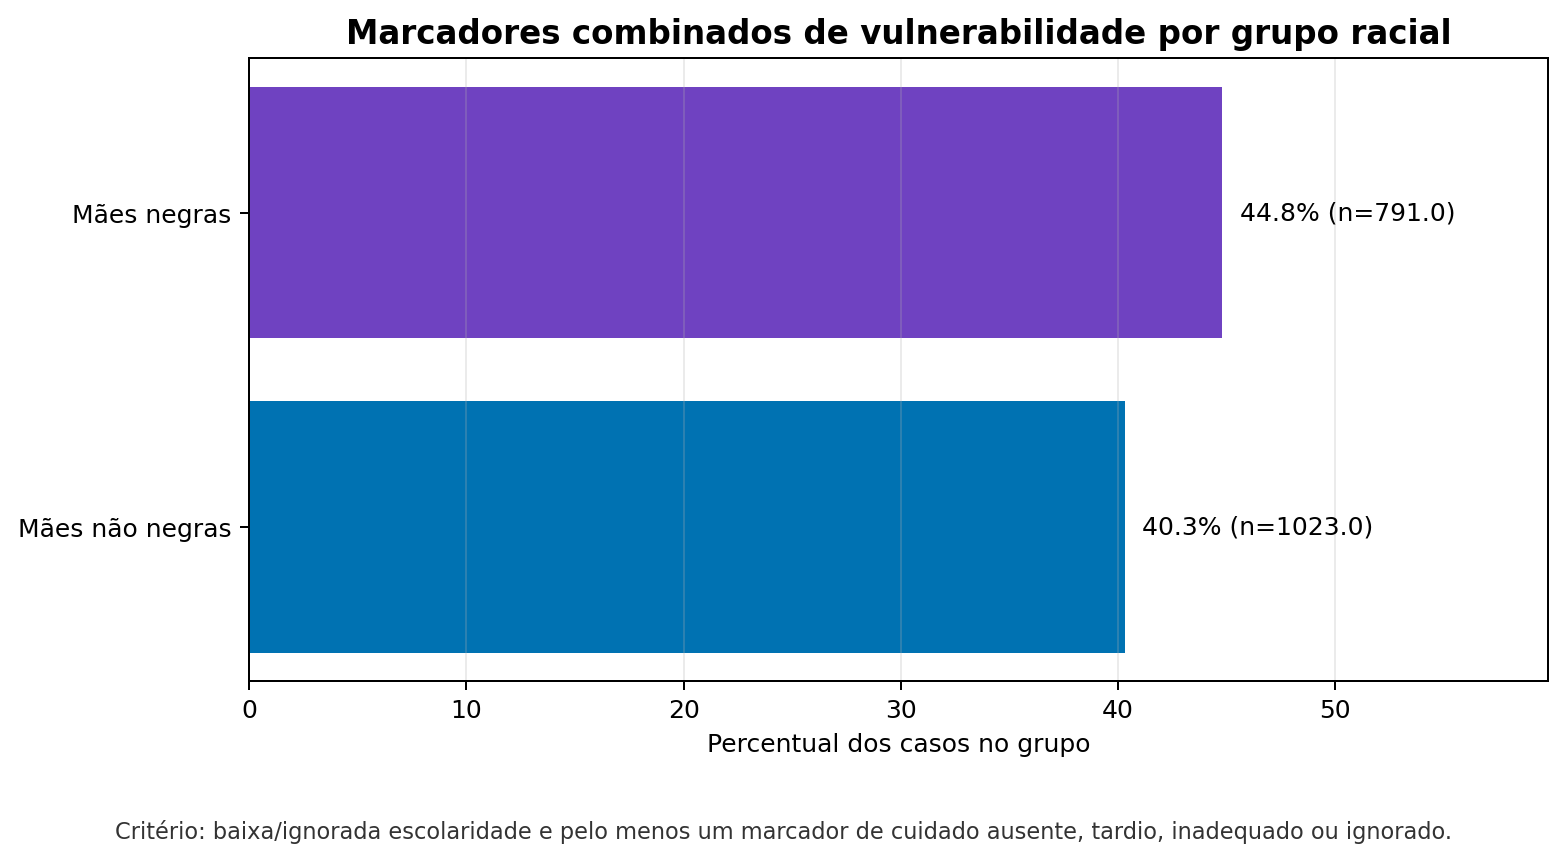
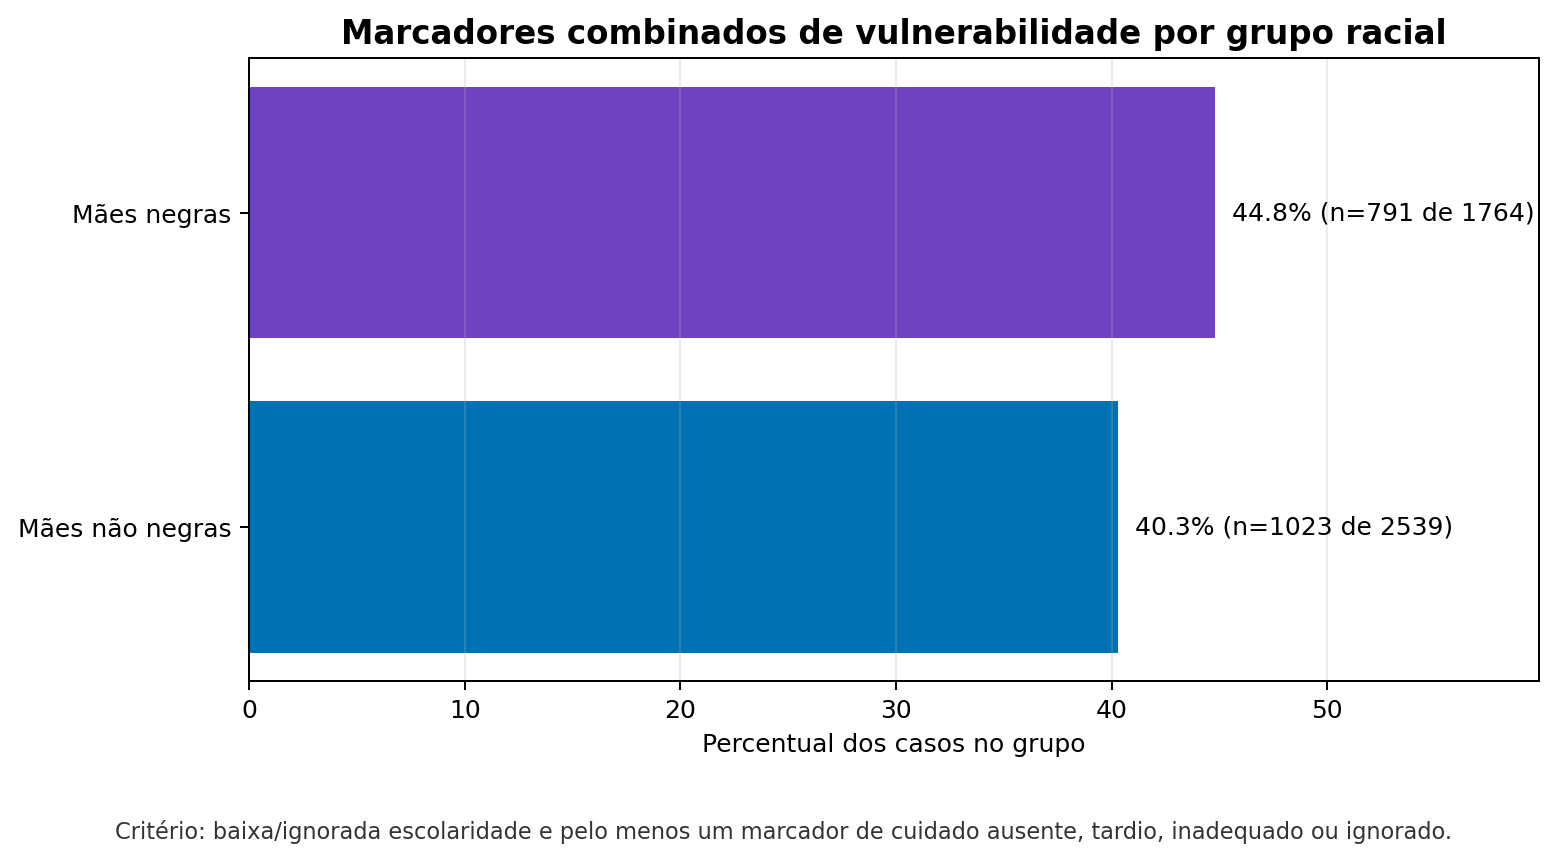
fix(visualizacao): refinar graficos finais de desigualdade

diff --git a/src/visualization/final_report.py b/src/visualization/final_report.py
@@ -192,6 +192,101 @@ def plot_prenatal(engine, output_dir: Path) -> Path:
     return savefig(fig, output_dir / "prenatal_grupo_racial.png")
 
 
+def plot_schooling_without_prenatal(engine, output_dir: Path) -> Path:
+    query = """
+    SELECT
+        grupo_racial_mae,
+        escolaridade_mae,
+        SUM(casos_sc)::integer AS casos
+    FROM gold.sinan_sc_sem_prenatal_escolaridade
+    WHERE cod_municipio_residencia = '431490'
+      AND grupo_racial_mae IN ('Maes negras', 'Maes nao negras')
+    GROUP BY grupo_racial_mae, escolaridade_mae
+    """
+    data = pd.read_sql_query(text(query), engine)
+    group_order = ["Maes nao negras", "Maes negras"]
+    schooling_order = ["Ate 7 anos de estudo", "8 anos ou mais de estudo", "Ignorada/sem informacao"]
+    group_labels = {
+        "Maes nao negras": "Mães não negras",
+        "Maes negras": "Mães negras",
+    }
+    schooling_labels = {
+        "Ate 7 anos de estudo": "Até 7 anos de estudo",
+        "8 anos ou mais de estudo": "8 anos ou mais de estudo",
+        "Ignorada/sem informacao": "Ignorada/sem informação",
+    }
+    colors = {
+        "Ate 7 anos de estudo": "#D55E00",
+        "8 anos ou mais de estudo": "#0072B2",
+        "Ignorada/sem informacao": "#8A8F98",
+    }
+
+    base = pd.MultiIndex.from_product(
+        [group_order, schooling_order],
+        names=["grupo_racial_mae", "escolaridade_mae"],
+    ).to_frame(index=False)
+    plot_data = base.merge(data, on=["grupo_racial_mae", "escolaridade_mae"], how="left").fillna({"casos": 0})
+    plot_data["casos"] = plot_data["casos"].astype(int)
+    plot_data["total_grupo"] = plot_data.groupby("grupo_racial_mae")["casos"].transform("sum")
+    plot_data["percentual"] = plot_data.apply(
+        lambda row: 0 if row.total_grupo == 0 else row.casos / row.total_grupo * 100,
+        axis=1,
+    )
+
+    fig, ax = plt.subplots(figsize=(11.2, 5.2))
+    left = {group: 0.0 for group in group_order}
+    y_positions = list(range(len(group_order)))
+    for schooling in schooling_order:
+        subset = plot_data[plot_data["escolaridade_mae"].eq(schooling)]
+        widths = subset["percentual"].tolist()
+        starts = [left[group] for group in group_order]
+        bars = ax.barh(
+            y_positions,
+            widths,
+            left=starts,
+            color=colors[schooling],
+            edgecolor="white",
+            linewidth=0.9,
+            label=schooling_labels[schooling],
+            height=0.48,
+        )
+        for group, start, width, cases, bar in zip(group_order, starts, widths, subset["casos"], bars, strict=True):
+            if cases > 0 and width >= 8:
+                ax.text(
+                    start + width / 2,
+                    bar.get_y() + bar.get_height() / 2,
+                    f"{width:.1f}%\n(n={cases})",
+                    ha="center",
+                    va="center",
+                    color="white",
+                    fontsize=9,
+                    weight="bold",
+                )
+            left[group] += width
+
+    for group in group_order:
+        total = int(plot_data.loc[plot_data["grupo_racial_mae"].eq(group), "casos"].sum())
+        ax.text(101, y_positions[group_order.index(group)], f"Total: {total}", va="center", fontsize=9.5, color="#333333")
+
+    ax.set_title(
+        "Casos de sífilis congênita sem pré-natal: escolaridade por grupo racial (2015-2024)",
+        fontsize=13,
+        weight="bold",
+    )
+    ax.set_xlabel("Distribuição percentual dentro dos casos sem pré-natal")
+    ax.set_yticks(y_positions, [group_labels[group] for group in group_order])
+    ax.set_xlim(0, 112)
+    ax.grid(axis="x", alpha=0.25)
+    ax.legend(title="Escolaridade materna", loc="upper center", bbox_to_anchor=(0.5, -0.16), ncol=3)
+    fig.tight_layout(rect=[0, 0.08, 1, 1])
+
+    docs_output = savefig(fig, RESULTS_DIR / "escolaridade_sem_prenatal_grupo_racial.png")
+    target = output_dir / "escolaridade_sem_prenatal_grupo_racial.png"
+    target.parent.mkdir(parents=True, exist_ok=True)
+    shutil.copy2(docs_output, target)
+    return target
+
+
 def plot_black_mothers_profile(engine, output_dir: Path) -> Path:
     data = pd.read_sql_query(text(read_sql_file("18_perfil_maes_negras_escolaridade_idade.sql")), engine)
     schooling_order = ["Ate 7 anos de estudo", "8 anos ou mais de estudo", "Ignorada/sem informacao"]
@@ -229,10 +324,12 @@ def plot_black_mothers_profile(engine, output_dir: Path) -> Path:
 
 
 def plot_intersectional(engine, output_dir: Path) -> Path:
-    data = pd.read_sql_query(text(read_sql_file("17_analise_interseccional_desigualdade.sql")), engine)
-    data = data[data["marcador_vulnerabilidade"].eq("Maior vulnerabilidade registrada")].copy()
+    data_all = pd.read_sql_query(text(read_sql_file("17_analise_interseccional_desigualdade.sql")), engine)
+    totals = data_all.groupby("grupo_racial_mae")["casos_sc"].sum().to_dict()
+    data = data_all[data_all["marcador_vulnerabilidade"].eq("Maior vulnerabilidade registrada")].copy()
     labels = {"Maes negras": "Mães negras", "Maes nao negras": "Mães não negras"}
     data["grupo"] = data["grupo_racial_mae"].map(labels)
+    data["total_grupo"] = data["grupo_racial_mae"].map(totals).astype(int)
 
     fig, ax = plt.subplots(figsize=(8.8, 4.8))
     bars = ax.barh(
@@ -244,7 +341,7 @@ def plot_intersectional(engine, output_dir: Path) -> Path:
         ax.text(
             bar.get_width() + 0.8,
             bar.get_y() + bar.get_height() / 2,
-            f"{row.percentual_no_grupo:.1f}% (n={row.casos_sc})",
+            f"{row.percentual_no_grupo:.1f}% (n={int(row.casos_sc)} de {int(row.total_grupo)})",
             va="center",
             fontsize=10,
         )
@@ -300,6 +397,7 @@ def generate_all(database_url_value: str | None = None, output_dir_value: str | 
         plot_ratio(engine, output_dir),
         plot_detailed_race(engine, output_dir),
         plot_prenatal(engine, output_dir),
+        plot_schooling_without_prenatal(engine, output_dir),
         copy_existing("diagnostico_materno_grupo_racial.png", "diagnostico_materno_grupo_racial.png", output_dir),
         copy_existing("tratamento_materno_grupo_racial.png", "tratamento_materno_grupo_racial.png", output_dir),
         plot_black_mothers_profile(engine, output_dir),

diff --git a/docs/README.pt-BR.md b/docs/README.pt-BR.md
@@ -259,7 +259,7 @@ Cada notebook deve ser executado a partir da raiz do repositório ou pelo Google
 
 | Notebook | Pergunta principal | Google Colab | Imagem do resultado |
 | --- | --- | --- | --- |
-| `notebooks/visualizacao_sifilis_congenita_poars.ipynb` | Dentro dos casos de sífilis congênita sem pré-natal em Porto Alegre, como a escolaridade materna se distribui por grupo racial? | [Abrir no Colab](https://colab.research.google.com/github/paduanton/data-insights-visualization/blob/main/notebooks/visualizacao_sifilis_congenita_poars.ipynb) | `outputs/images/graphs/visualizacao_sifilis_congenita_poars_escolaridade_sem_prenatal.png` |
+| `notebooks/visualizacao_sifilis_congenita_poars.ipynb` | Dentro dos casos de sífilis congênita sem pré-natal em Porto Alegre, como a escolaridade materna se distribui por grupo racial? | [Abrir no Colab](https://colab.research.google.com/github/paduanton/data-insights-visualization/blob/main/notebooks/visualizacao_sifilis_congenita_poars.ipynb) | `outputs/images/graphs/visualizacao_sifilis_congenita_poars_escolaridade_sem_prenatal.png`<br>`docs/assets/results/escolaridade_sem_prenatal_grupo_racial.png` |
 | `notebooks/analytics/00_validacao_ambiente_dados.ipynb` | O ambiente consegue reproduzir o MVP 2024 antes da expansão histórica? | [Abrir no Colab](https://colab.research.google.com/github/paduanton/data-insights-visualization/blob/main/notebooks/analytics/00_validacao_ambiente_dados.ipynb) | `docs/assets/results/validacao_ambiente_dados.png` |
 | `notebooks/analytics/01_overview_sifilis_congenita.ipynb` | Qual é o panorama de casos notificados, nascidos vivos e incidência geral em Porto Alegre? | [Abrir no Colab](https://colab.research.google.com/github/paduanton/data-insights-visualization/blob/main/notebooks/analytics/01_overview_sifilis_congenita.ipynb) | `docs/assets/results/overview_sifilis_congenita.png` |
 | `notebooks/analytics/02_auditoria_basedosdados.ipynb` | Quais tabelas da Base dos Dados podem complementar ou validar as bases DATASUS do projeto? | [Abrir no Colab](https://colab.research.google.com/github/paduanton/data-insights-visualization/blob/main/notebooks/analytics/02_auditoria_basedosdados.ipynb) | `docs/assets/results/auditoria_basedosdados_periodos.png` |
@@ -281,6 +281,7 @@ Ao criar um novo notebook, adicione uma nova linha nesta tabela e mantenha a mes
 Visualização já produzida:
 
 - `outputs/images/graphs/visualizacao_sifilis_congenita_poars_escolaridade_sem_prenatal.png`
+- `docs/assets/results/escolaridade_sem_prenatal_grupo_racial.png`
 
 Resultados iniciais validados para 2024:
 
@@ -330,6 +331,7 @@ Imagens geradas:
 - `docs/assets/results/serie_historica_incidencia.png`
 - `docs/assets/results/desigualdade_racial_incidencia.png`
 - `docs/assets/results/razao_incidencia_grupo_racial.png`
+- `docs/assets/results/escolaridade_sem_prenatal_grupo_racial.png`
 - `docs/assets/results/diagnostico_materno_grupo_racial.png`
 - `docs/assets/results/tratamento_materno_grupo_racial.png`
 - `docs/assets/results/contexto_cnes_ibge_sim.png`
@@ -344,6 +346,7 @@ Imagens finais para relatório:
 - `outputs/images/final_report/razao_incidencia_racial.png`
 - `outputs/images/final_report/incidencia_raca_cor_detalhada.png`
 - `outputs/images/final_report/prenatal_grupo_racial.png`
+- `outputs/images/final_report/escolaridade_sem_prenatal_grupo_racial.png`
 - `outputs/images/final_report/diagnostico_materno_grupo_racial.png`
 - `outputs/images/final_report/tratamento_materno_grupo_racial.png`
 - `outputs/images/final_report/perfil_maes_negras_escolaridade_idade.png`
@@ -354,6 +357,7 @@ Leitura da camada final:
 
 - A razão de incidência entre mães negras e mães não negras permanece acima de `1` em todos os anos carregados.
 - Em `2024`, a incidência entre mães negras foi `1,54` vez a incidência entre mães não negras, com diferença absoluta de `4,95` casos por 1.000 nascidos vivos.
+- Entre os casos sem pré-natal de `2015-2024`, mães negras somaram `259` registros e mães não negras `399`; a baixa escolaridade, definida como até 7 anos de estudo, apareceu em `23,9%` dos casos de mães negras (`n=62`) e `14,3%` dos casos de mães não negras (`n=57`).
 - Em `2024`, o tratamento materno inadequado foi registrado em `98,2%` dos casos de mães negras e em `85,0%` dos casos de mães não negras em Porto Alegre.
 - A análise por raça/cor detalhada confirma incidência maior em mães pretas e pardas do que em mães brancas na maior parte da série; categorias amarela, indígena e ignorada têm denominadores baixos e são tratadas como complemento exploratório.
 - A análise interseccional é descritiva: o marcador de maior vulnerabilidade combina baixa ou ignorada escolaridade com ao menos um registro de cuidado ausente, tardio, inadequado ou ignorado.

diff --git a/docs/README.en.md b/docs/README.en.md
@@ -259,7 +259,7 @@ Each notebook should be run from the repository root or through Google Colab. Wh
 
 | Notebook | Main question | Google Colab | Result image |
 | --- | --- | --- | --- |
-| `notebooks/visualizacao_sifilis_congenita_poars.ipynb` | Among congenital syphilis cases without prenatal care in Porto Alegre, how is maternal education distributed by racial group? | [Open in Colab](https://colab.research.google.com/github/paduanton/data-insights-visualization/blob/main/notebooks/visualizacao_sifilis_congenita_poars.ipynb) | `outputs/images/graphs/visualizacao_sifilis_congenita_poars_escolaridade_sem_prenatal.png` |
+| `notebooks/visualizacao_sifilis_congenita_poars.ipynb` | Among congenital syphilis cases without prenatal care in Porto Alegre, how is maternal education distributed by racial group? | [Open in Colab](https://colab.research.google.com/github/paduanton/data-insights-visualization/blob/main/notebooks/visualizacao_sifilis_congenita_poars.ipynb) | `outputs/images/graphs/visualizacao_sifilis_congenita_poars_escolaridade_sem_prenatal.png`<br>`docs/assets/results/escolaridade_sem_prenatal_grupo_racial.png` |
 | `notebooks/analytics/00_validacao_ambiente_dados.ipynb` | Can the environment reproduce the 2024 MVP before historical expansion? | [Open in Colab](https://colab.research.google.com/github/paduanton/data-insights-visualization/blob/main/notebooks/analytics/00_validacao_ambiente_dados.ipynb) | `docs/assets/results/validacao_ambiente_dados.png` |
 | `notebooks/analytics/01_overview_sifilis_congenita.ipynb` | What is the overview of reported cases, live births, and general incidence in Porto Alegre? | [Open in Colab](https://colab.research.google.com/github/paduanton/data-insights-visualization/blob/main/notebooks/analytics/01_overview_sifilis_congenita.ipynb) | `docs/assets/results/overview_sifilis_congenita.png` |
 | `notebooks/analytics/02_auditoria_basedosdados.ipynb` | Which Base dos Dados tables can complement or validate the project's DATASUS sources? | [Open in Colab](https://colab.research.google.com/github/paduanton/data-insights-visualization/blob/main/notebooks/analytics/02_auditoria_basedosdados.ipynb) | `docs/assets/results/auditoria_basedosdados_periodos.png` |
@@ -281,6 +281,7 @@ When creating a new notebook, add a new row to this table and apply the same upd
 Existing visualization:
 
 - `outputs/images/graphs/visualizacao_sifilis_congenita_poars_escolaridade_sem_prenatal.png`
+- `docs/assets/results/escolaridade_sem_prenatal_grupo_racial.png`
 
 Initial validated results for 2024:
 
@@ -330,6 +331,7 @@ Generated images:
 - `docs/assets/results/serie_historica_incidencia.png`
 - `docs/assets/results/desigualdade_racial_incidencia.png`
 - `docs/assets/results/razao_incidencia_grupo_racial.png`
+- `docs/assets/results/escolaridade_sem_prenatal_grupo_racial.png`
 - `docs/assets/results/diagnostico_materno_grupo_racial.png`
 - `docs/assets/results/tratamento_materno_grupo_racial.png`
 - `docs/assets/results/contexto_cnes_ibge_sim.png`
@@ -344,6 +346,7 @@ Final report images:
 - `outputs/images/final_report/razao_incidencia_racial.png`
 - `outputs/images/final_report/incidencia_raca_cor_detalhada.png`
 - `outputs/images/final_report/prenatal_grupo_racial.png`
+- `outputs/images/final_report/escolaridade_sem_prenatal_grupo_racial.png`
 - `outputs/images/final_report/diagnostico_materno_grupo_racial.png`
 - `outputs/images/final_report/tratamento_materno_grupo_racial.png`
 - `outputs/images/final_report/perfil_maes_negras_escolaridade_idade.png`
@@ -354,6 +357,7 @@ Final-layer reading:
 
 - The incidence ratio between Black and non-Black mothers remains above `1` in every loaded year.
 - In `2024`, incidence among Black mothers was `1.54` times the incidence among non-Black mothers, with an absolute difference of `4.95` cases per 1,000 live births.
+- Among cases without prenatal care from `2015-2024`, Black mothers accounted for `259` records and non-Black mothers for `399`; low education, defined as up to 7 years of schooling, appeared in `23.9%` of Black mothers' cases (`n=62`) and `14.3%` of non-Black mothers' cases (`n=57`).
 - In `2024`, inadequate maternal treatment was recorded in `98.2%` of cases among Black mothers and `85.0%` among non-Black mothers in Porto Alegre.
 - The detailed race/color analysis confirms higher incidence among Black and Brown mothers than among White mothers in most of the series; Yellow, Indigenous, and ignored categories have low denominators and are treated as exploratory complements.
 - The intersectional analysis is descriptive: the higher-vulnerability marker combines low or ignored education with at least one absent, late, inadequate, or ignored care record.

diff --git a/docs/final_results_summary.md b/docs/final_results_summary.md
@@ -16,7 +16,8 @@ Em `2024`, a incidência entre mães negras foi `1,54` vez a incidência entre m
 - A série geral de Porto Alegre foi validada para `2015-2024` em `gold.indicadores_municipio_ano`.
 - Em `2024`, Porto Alegre teve `137` casos de sífilis congênita e `12850` nascidos vivos, com incidência geral de `10,66` por `1.000` nascidos vivos.
 - Em `2024`, o tratamento materno inadequado foi registrado em `98,2%` dos casos de mães negras e `85,0%` dos casos de mães não negras.
-- A análise interseccional mostrou marcador de maior vulnerabilidade em `44,8%` dos casos de mães negras (`n=791`) e `40,3%` dos casos de mães não negras (`n=1023`).
+- A análise interseccional mostrou marcador de maior vulnerabilidade em `44,8%` dos casos de mães negras (`n=791` de `1764`) e `40,3%` dos casos de mães não negras (`n=1023` de `2539`).
+- Entre os casos sem pré-natal de `2015-2024`, mães negras somaram `259` registros e mães não negras `399`; a baixa escolaridade, definida como até 7 anos de estudo, apareceu em `23,9%` dos casos de mães negras (`n=62`) e `14,3%` dos casos de mães não negras (`n=57`).
 
 ## Resultados Complementares
 
@@ -33,6 +34,7 @@ Resultados em `docs/assets/results/`:
 - `docs/assets/results/serie_historica_incidencia.png`
 - `docs/assets/results/desigualdade_racial_incidencia.png`
 - `docs/assets/results/razao_incidencia_grupo_racial.png`
+- `docs/assets/results/escolaridade_sem_prenatal_grupo_racial.png`
 - `docs/assets/results/diagnostico_materno_grupo_racial.png`
 - `docs/assets/results/tratamento_materno_grupo_racial.png`
 - `docs/assets/results/contexto_cnes_ibge_sim.png`
@@ -45,6 +47,7 @@ Imagens finais em `outputs/images/final_report/`:
 - `outputs/images/final_report/razao_incidencia_racial.png`
 - `outputs/images/final_report/incidencia_raca_cor_detalhada.png`
 - `outputs/images/final_report/prenatal_grupo_racial.png`
+- `outputs/images/final_report/escolaridade_sem_prenatal_grupo_racial.png`
 - `outputs/images/final_report/diagnostico_materno_grupo_racial.png`
 - `outputs/images/final_report/tratamento_materno_grupo_racial.png`
 - `outputs/images/final_report/perfil_maes_negras_escolaridade_idade.png`
